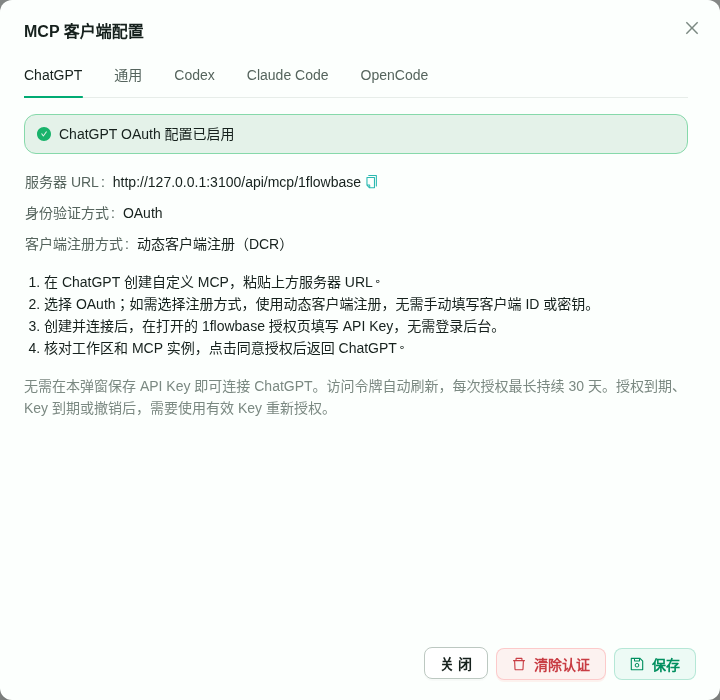
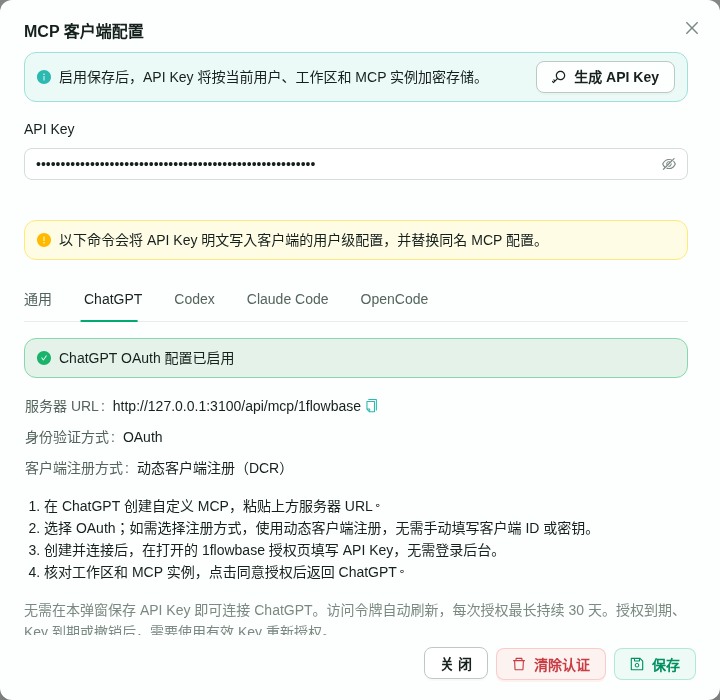
fix(mcp): preserve client configuration layout and tab order

diff --git a/web/app/src/features/settings/components/mcp-management/McpClientConfigurationModal.tsx b/web/app/src/features/settings/components/mcp-management/McpClientConfigurationModal.tsx
@@ -379,57 +379,44 @@ export function McpClientConfigurationModal({
       destroyOnHidden
     >
       <Space orientation="vertical" size="middle" style={{ width: '100%' }}>
-        {clientTab !== 'chatgpt' ? (
-          <>
-            <Alert
-              type="info"
-              showIcon
-              title={i18nText(
-                'settingsMcpManagement',
-                'auto.api_key_encrypted_storage_notice'
-              )}
-              action={
-                <Button
-                  href="/settings/api-key-authentication"
-                  icon={<KeyOutlined />}
-                >
-                  {i18nText('settingsMcpManagement', 'auto.generate_api_key')}
-                </Button>
-              }
+        <Alert
+          type="info"
+          showIcon
+          title={i18nText(
+            'settingsMcpManagement',
+            'auto.api_key_encrypted_storage_notice'
+          )}
+          action={
+            <Button
+              href="/settings/api-key-authentication"
+              icon={<KeyOutlined />}
+            >
+              {i18nText('settingsMcpManagement', 'auto.generate_api_key')}
+            </Button>
+          }
+        />
+        <Form layout="vertical">
+          <Form.Item label={i18nText('settingsMcpManagement', 'auto.api_key')}>
+            <Input.Password
+              aria-label={i18nText('settingsMcpManagement', 'auto.api_key')}
+              value={apiKey}
+              onChange={(event) => setApiKey(event.target.value)}
+              autoComplete="off"
             />
-            <Form layout="vertical">
-              <Form.Item
-                label={i18nText('settingsMcpManagement', 'auto.api_key')}
-              >
-                <Input.Password
-                  aria-label={i18nText('settingsMcpManagement', 'auto.api_key')}
-                  value={apiKey}
-                  onChange={(event) => setApiKey(event.target.value)}
-                  autoComplete="off"
-                />
-              </Form.Item>
-            </Form>
-            <Alert
-              type="warning"
-              showIcon
-              title={i18nText(
-                'settingsMcpManagement',
-                'auto.client_config_plaintext_notice'
-              )}
-            />
-          </>
-        ) : null}
+          </Form.Item>
+        </Form>
+        <Alert
+          type="warning"
+          showIcon
+          title={i18nText(
+            'settingsMcpManagement',
+            'auto.client_config_plaintext_notice'
+          )}
+        />
         <Tabs
           activeKey={clientTab}
           onChange={setClientTab}
           items={[
-            {
-              key: 'chatgpt',
-              label: 'ChatGPT',
-              children: instance ? (
-                <ChatGptConfiguration instanceId={instance.instance_id} />
-              ) : null
-            },
             {
               key: 'common',
               label: i18nText('settingsMcpManagement', 'auto.common'),
@@ -451,6 +438,13 @@ export function McpClientConfigurationModal({
                   value={configuration}
                 />
               )
+            },
+            {
+              key: 'chatgpt',
+              label: 'ChatGPT',
+              children: instance ? (
+                <ChatGptConfiguration instanceId={instance.instance_id} />
+              ) : null
             },
             {
               key: 'codex',

diff --git a/web/app/src/features/settings/components/mcp-management/_tests/mcp-management-panel/directory-editor.test.tsx b/web/app/src/features/settings/components/mcp-management/_tests/mcp-management-panel/directory-editor.test.tsx
@@ -1683,7 +1683,7 @@ describe('McpManagementPanel', () => {
       within(screen.getByRole('dialog'))
         .getAllByRole('tab')
         .map((tab) => tab.textContent)
-    ).toEqual(['ChatGPT', '通用', 'Codex', 'Claude Code', 'OpenCode']);
+    ).toEqual(['通用', 'ChatGPT', 'Codex', 'Claude Code', 'OpenCode']);
 
     fireEvent.click(screen.getByRole('button', { name: '关 闭' }));
     fireEvent.click(screen.getByRole('button', { name: '连接客户端' }));
